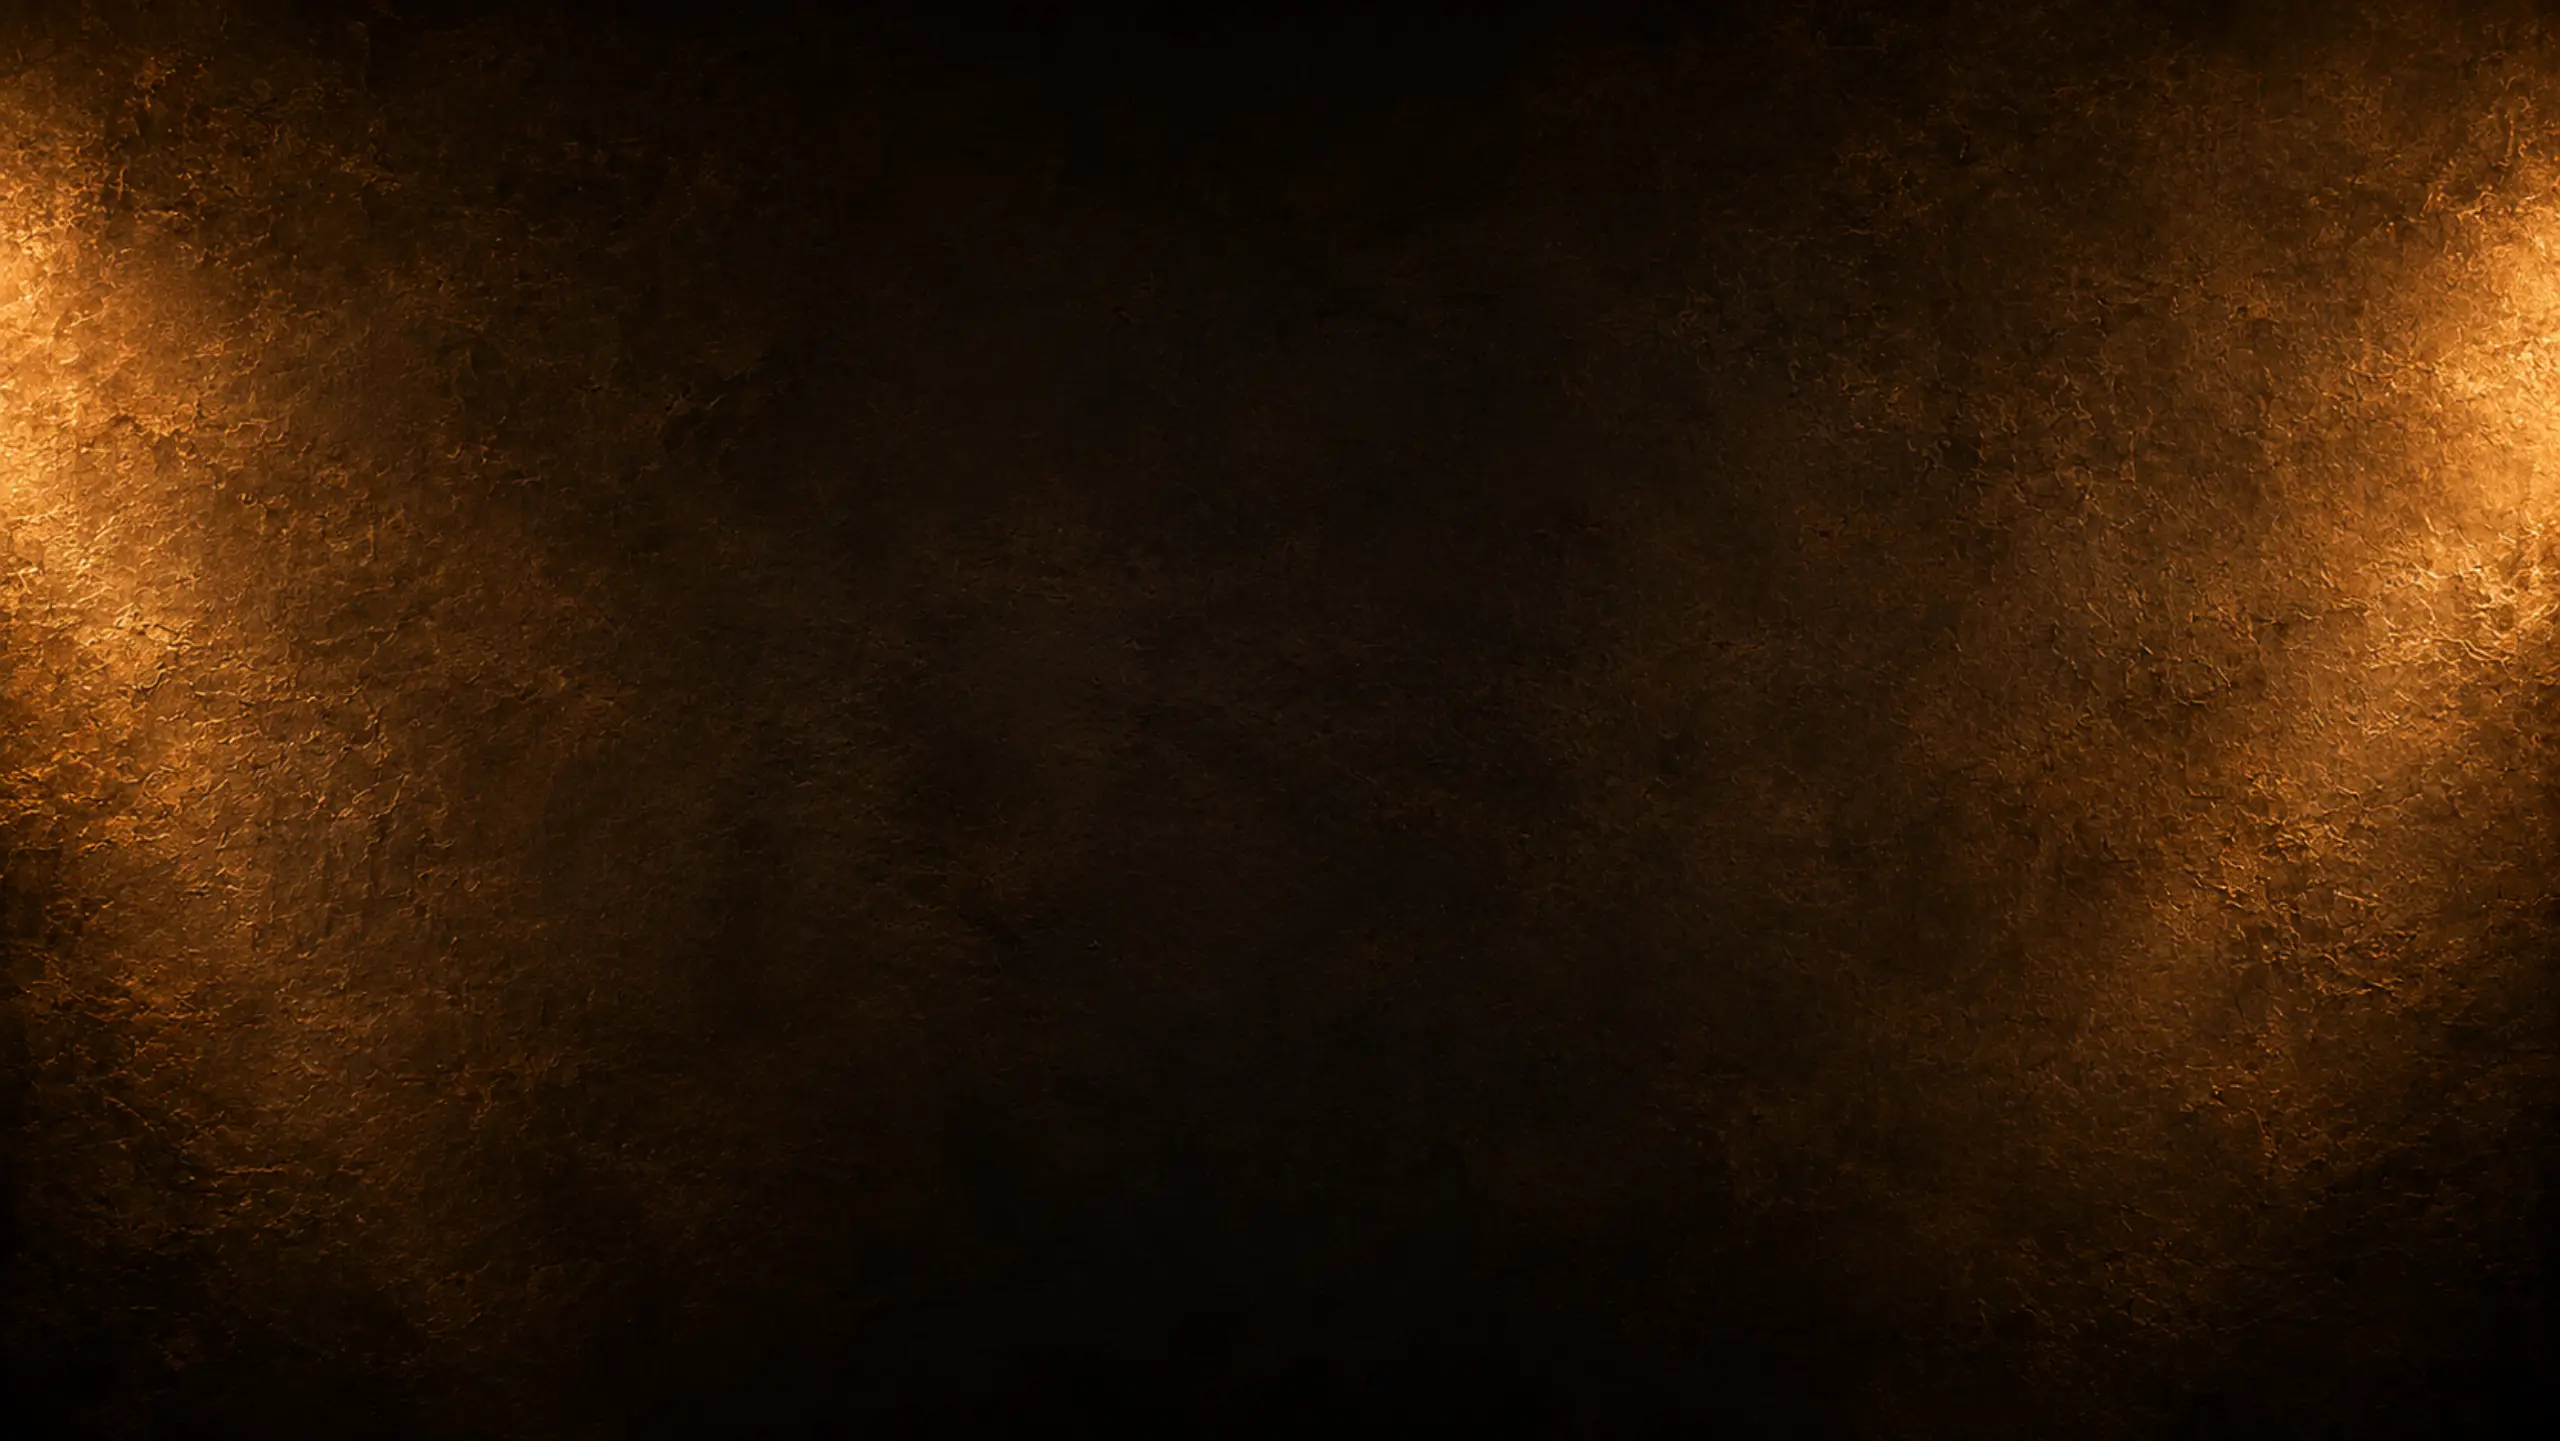
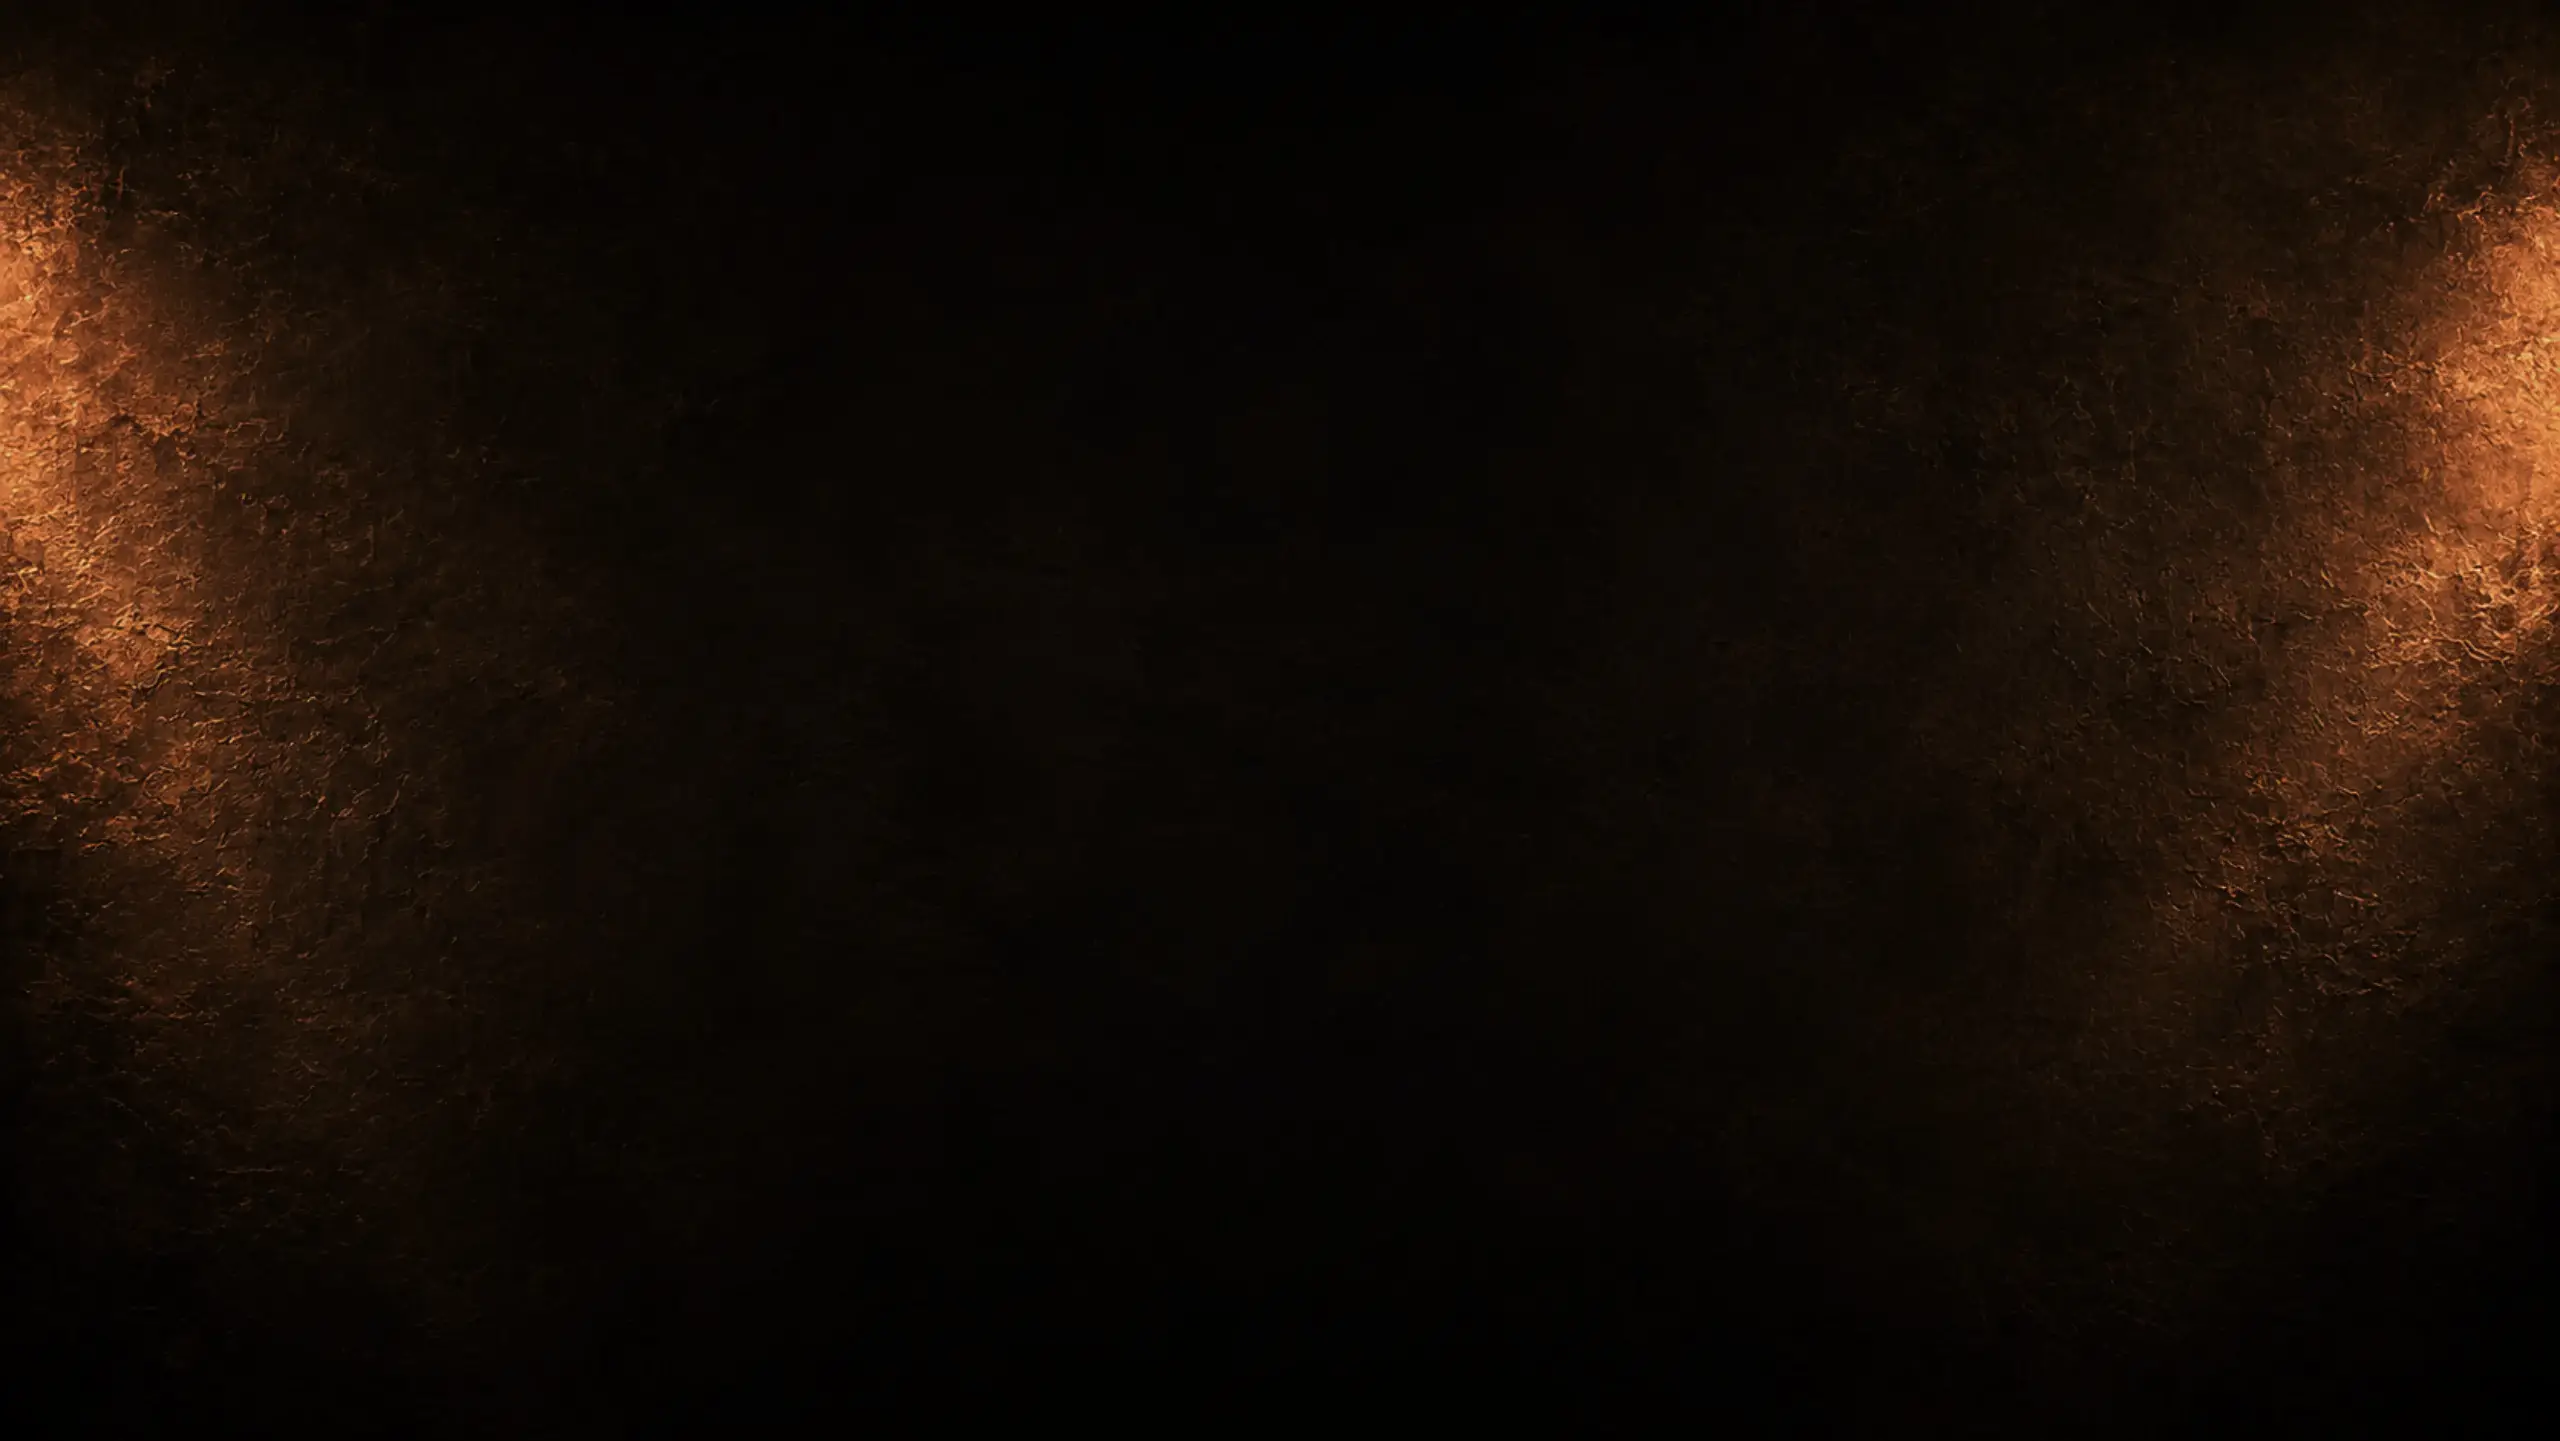
Add files via upload

diff --git a/index.html b/index.html
@@ -74,23 +74,11 @@
     }
     .reveal.visible { opacity: 1; transform: none; }
 
-    /* ── HAMBURGER FIXED ─────────────────────── */
-    .hamb-fixed {
-      position: fixed; top: 16px; right: 16px; z-index: 55;
-      width: 44px; height: 36px;
-      border: 1px solid var(--line); border-radius: 9px;
-      background: rgba(9,7,5,.7);
-      backdrop-filter: blur(10px); -webkit-backdrop-filter: blur(10px);
-      cursor: pointer; display: flex; flex-direction: column;
-      justify-content: center; align-items: center; gap: 5px;
-      transition: background .2s, border-color .2s;
-    }
-    .hamb-fixed:hover { background: rgba(216,174,90,.15); border-color: var(--gold); }
-    .hamb-fixed span { display: block; width: 20px; height: 1.5px; background: var(--beige); border-radius: 2px; }
+
 
     /* ── NAV DRAWER ──────────────────────────── */
     nav {
-      position: fixed; right: 14px; top: 64px;
+      position: fixed; right: 14px; top: 20px;
       width: min(310px, calc(100vw - 24px));
       background: rgba(9,7,5,.97);
       border: 1px solid var(--line); border-radius: 18px;
@@ -119,11 +107,25 @@
       display: flex;
       flex-direction: column;
       align-items: center;
+      justify-content: center;
       text-align: center;
-      padding: 58px 0 46px;
-      position: relative;
+      padding: 48px 20px 36px;
       width: 100%;
+      box-sizing: border-box;
     }
+    .hamb-hero {
+      margin-top: 22px;
+      width: 48px; height: 40px;
+      border: 1px solid var(--line); border-radius: 9px;
+      background: rgba(9,7,5,.7);
+      backdrop-filter: blur(10px);
+      cursor: pointer;
+      display: flex; flex-direction: column;
+      justify-content: center; align-items: center; gap: 5px;
+      transition: background .2s, border-color .2s;
+    }
+    .hamb-hero:hover { background: rgba(216,174,90,.15); border-color: var(--gold); }
+    .hamb-hero span { display: block; width: 22px; height: 2px; background: var(--beige); border-radius: 2px; }
     .hero::before {
       content: ""; position: absolute; top: 60%; left: 50%;
       transform: translate(-50%, -50%);
@@ -374,11 +376,6 @@
 </head>
 <body>
 
-  <!-- ── HAMBURGER ──────────────────────────────── -->
-  <button class="hamb-fixed" aria-label="Menü öffnen" onclick="toggleMenu()">
-    <span></span><span></span><span></span>
-  </button>
-
   <!-- ── NAVIGATION ──────────────────────────────── -->
   <nav id="menu">
     <a href="#home"      onclick="toggleMenu(false)">Start</a>
@@ -402,6 +399,9 @@
       <img class="logo" src="icon-512.webp" alt="LENNOY Logo">
       <div class="hero-tag">Pinsel &nbsp;·&nbsp; Bits &nbsp;·&nbsp; Bytes</div>
       <div class="ornament">✦</div>
+      <button class="hamb-hero" aria-label="Menü öffnen" onclick="toggleMenu()">
+        <span></span><span></span><span></span>
+      </button>
     </section>
 
     <!-- ── KIPP CLUB ──────────────────────────────── -->
@@ -602,7 +602,7 @@ Kontaktaufnahme per E-Mail erfolgt freiwillig durch den Nutzer. Es werden keine 
     }
     document.addEventListener('click', e => {
       const menu = document.getElementById('menu');
-      const hamb = document.querySelector('.hamb-fixed');
+      const hamb = document.querySelector('.hamb-hero');
       if (menu.classList.contains('open') && !menu.contains(e.target) && !hamb.contains(e.target)) {
         menu.classList.remove('open');
       }